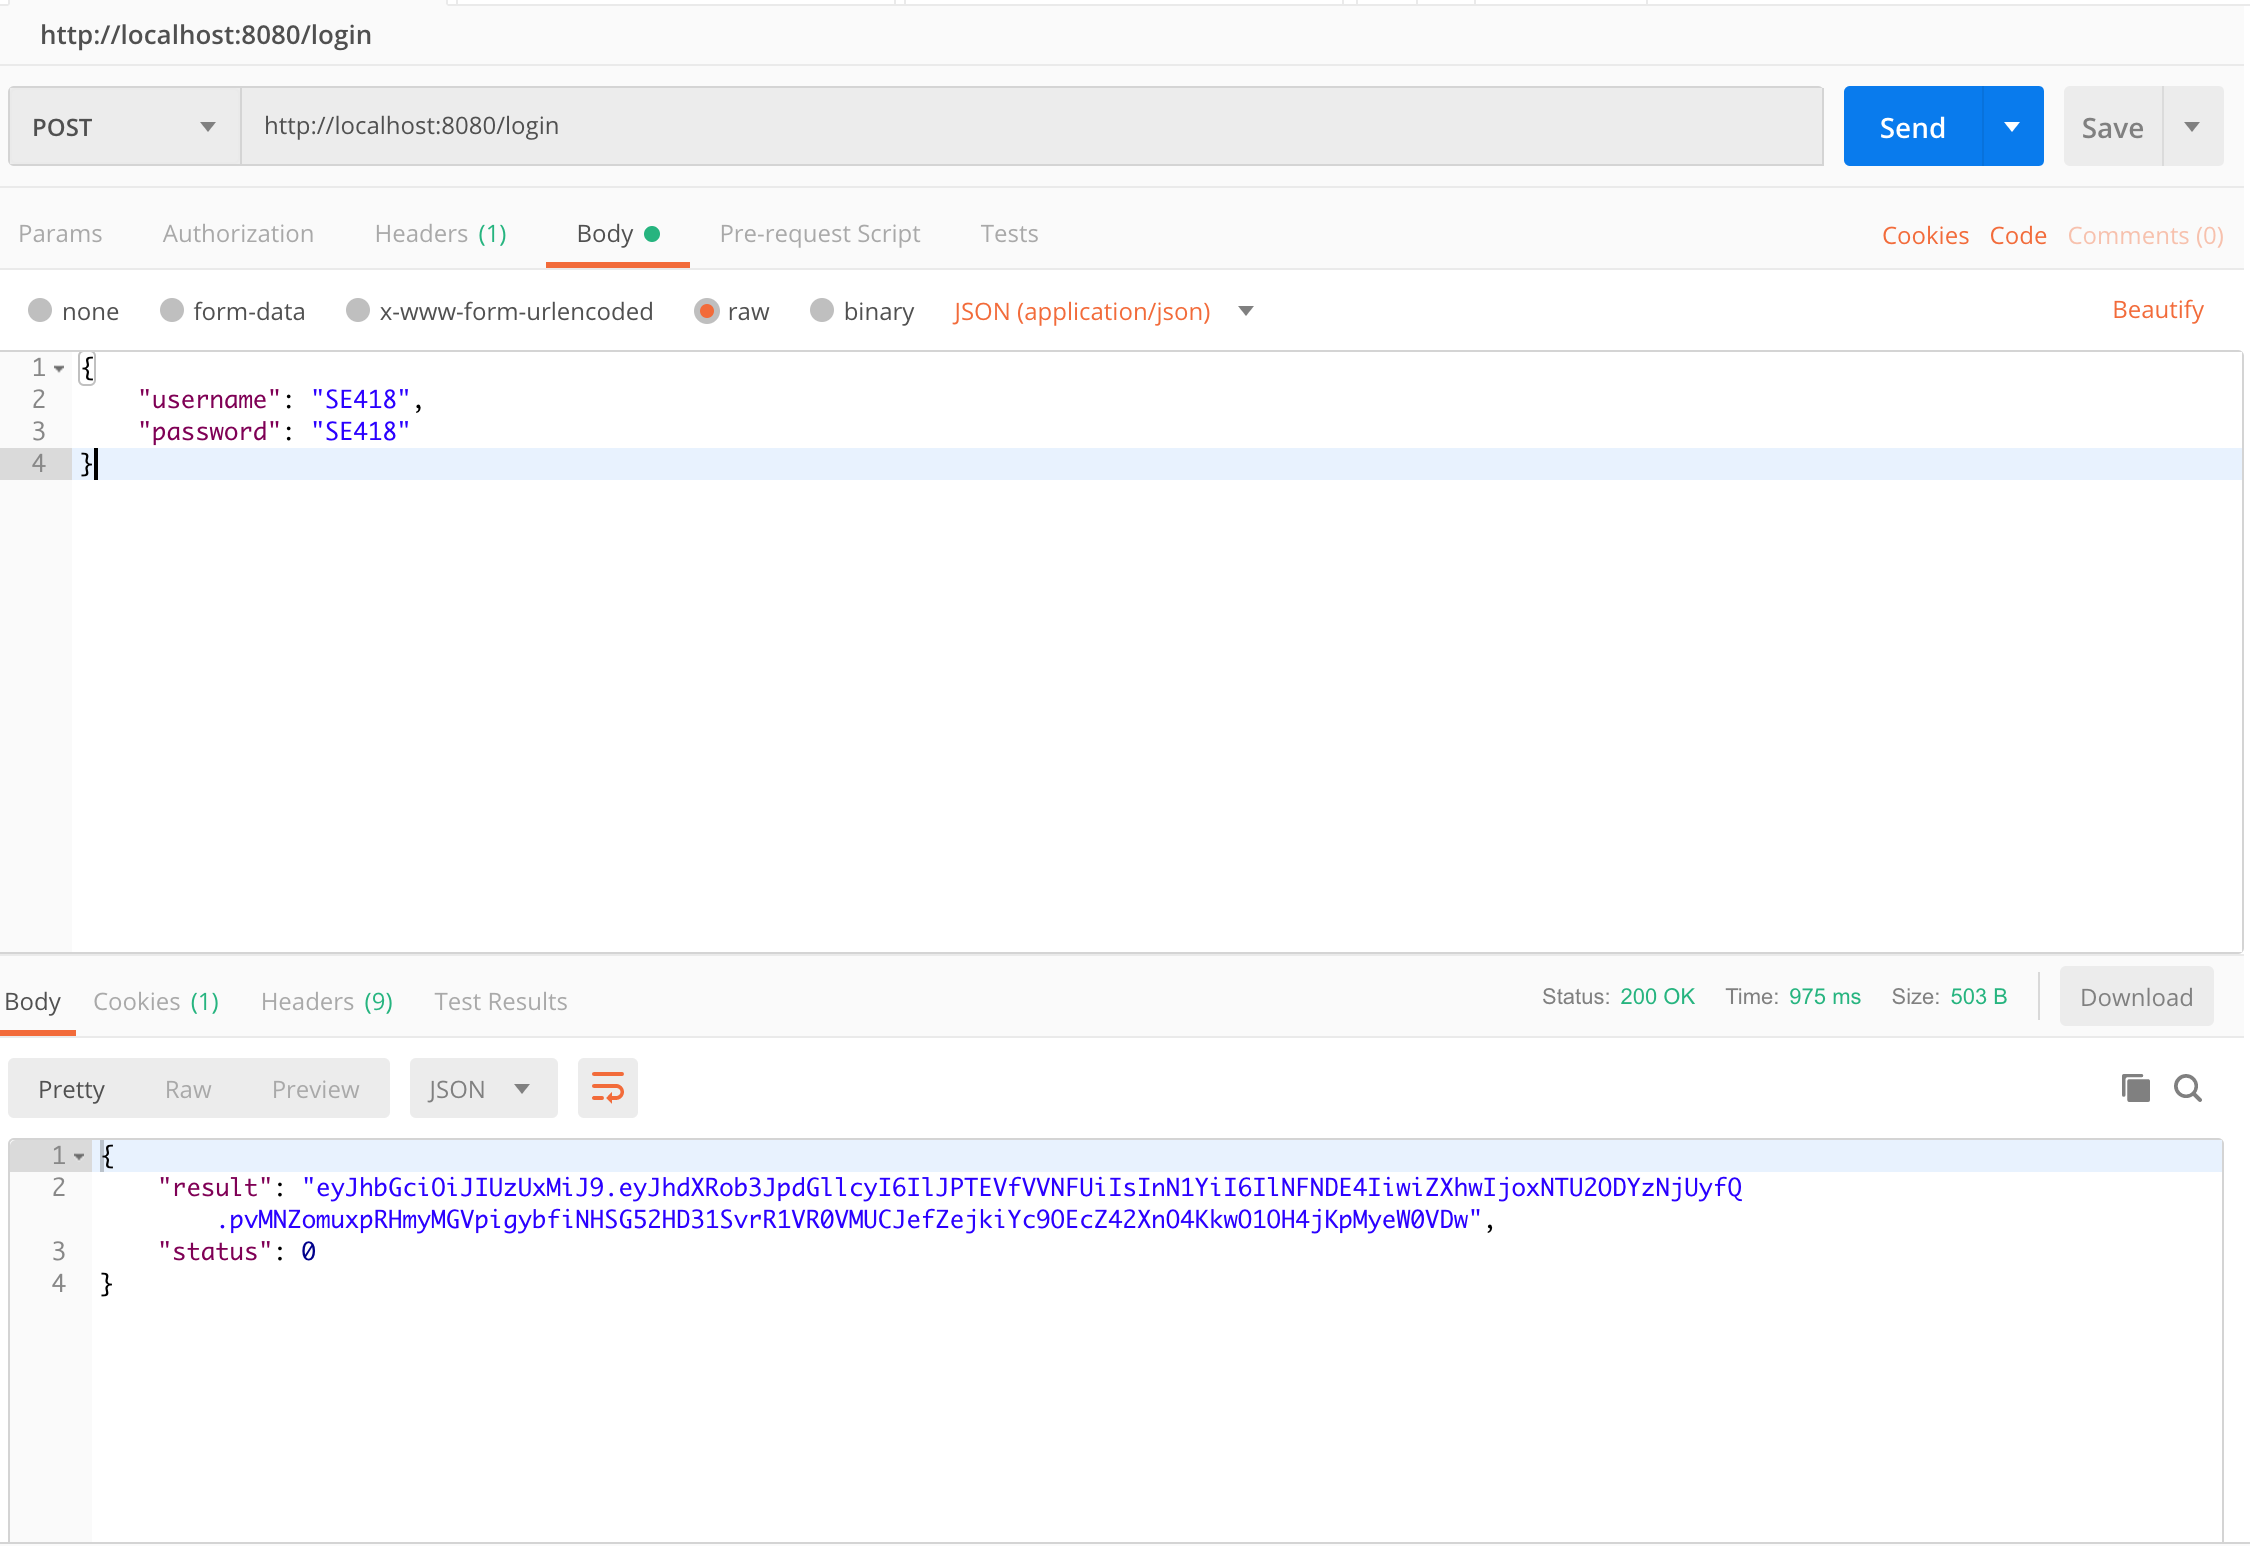
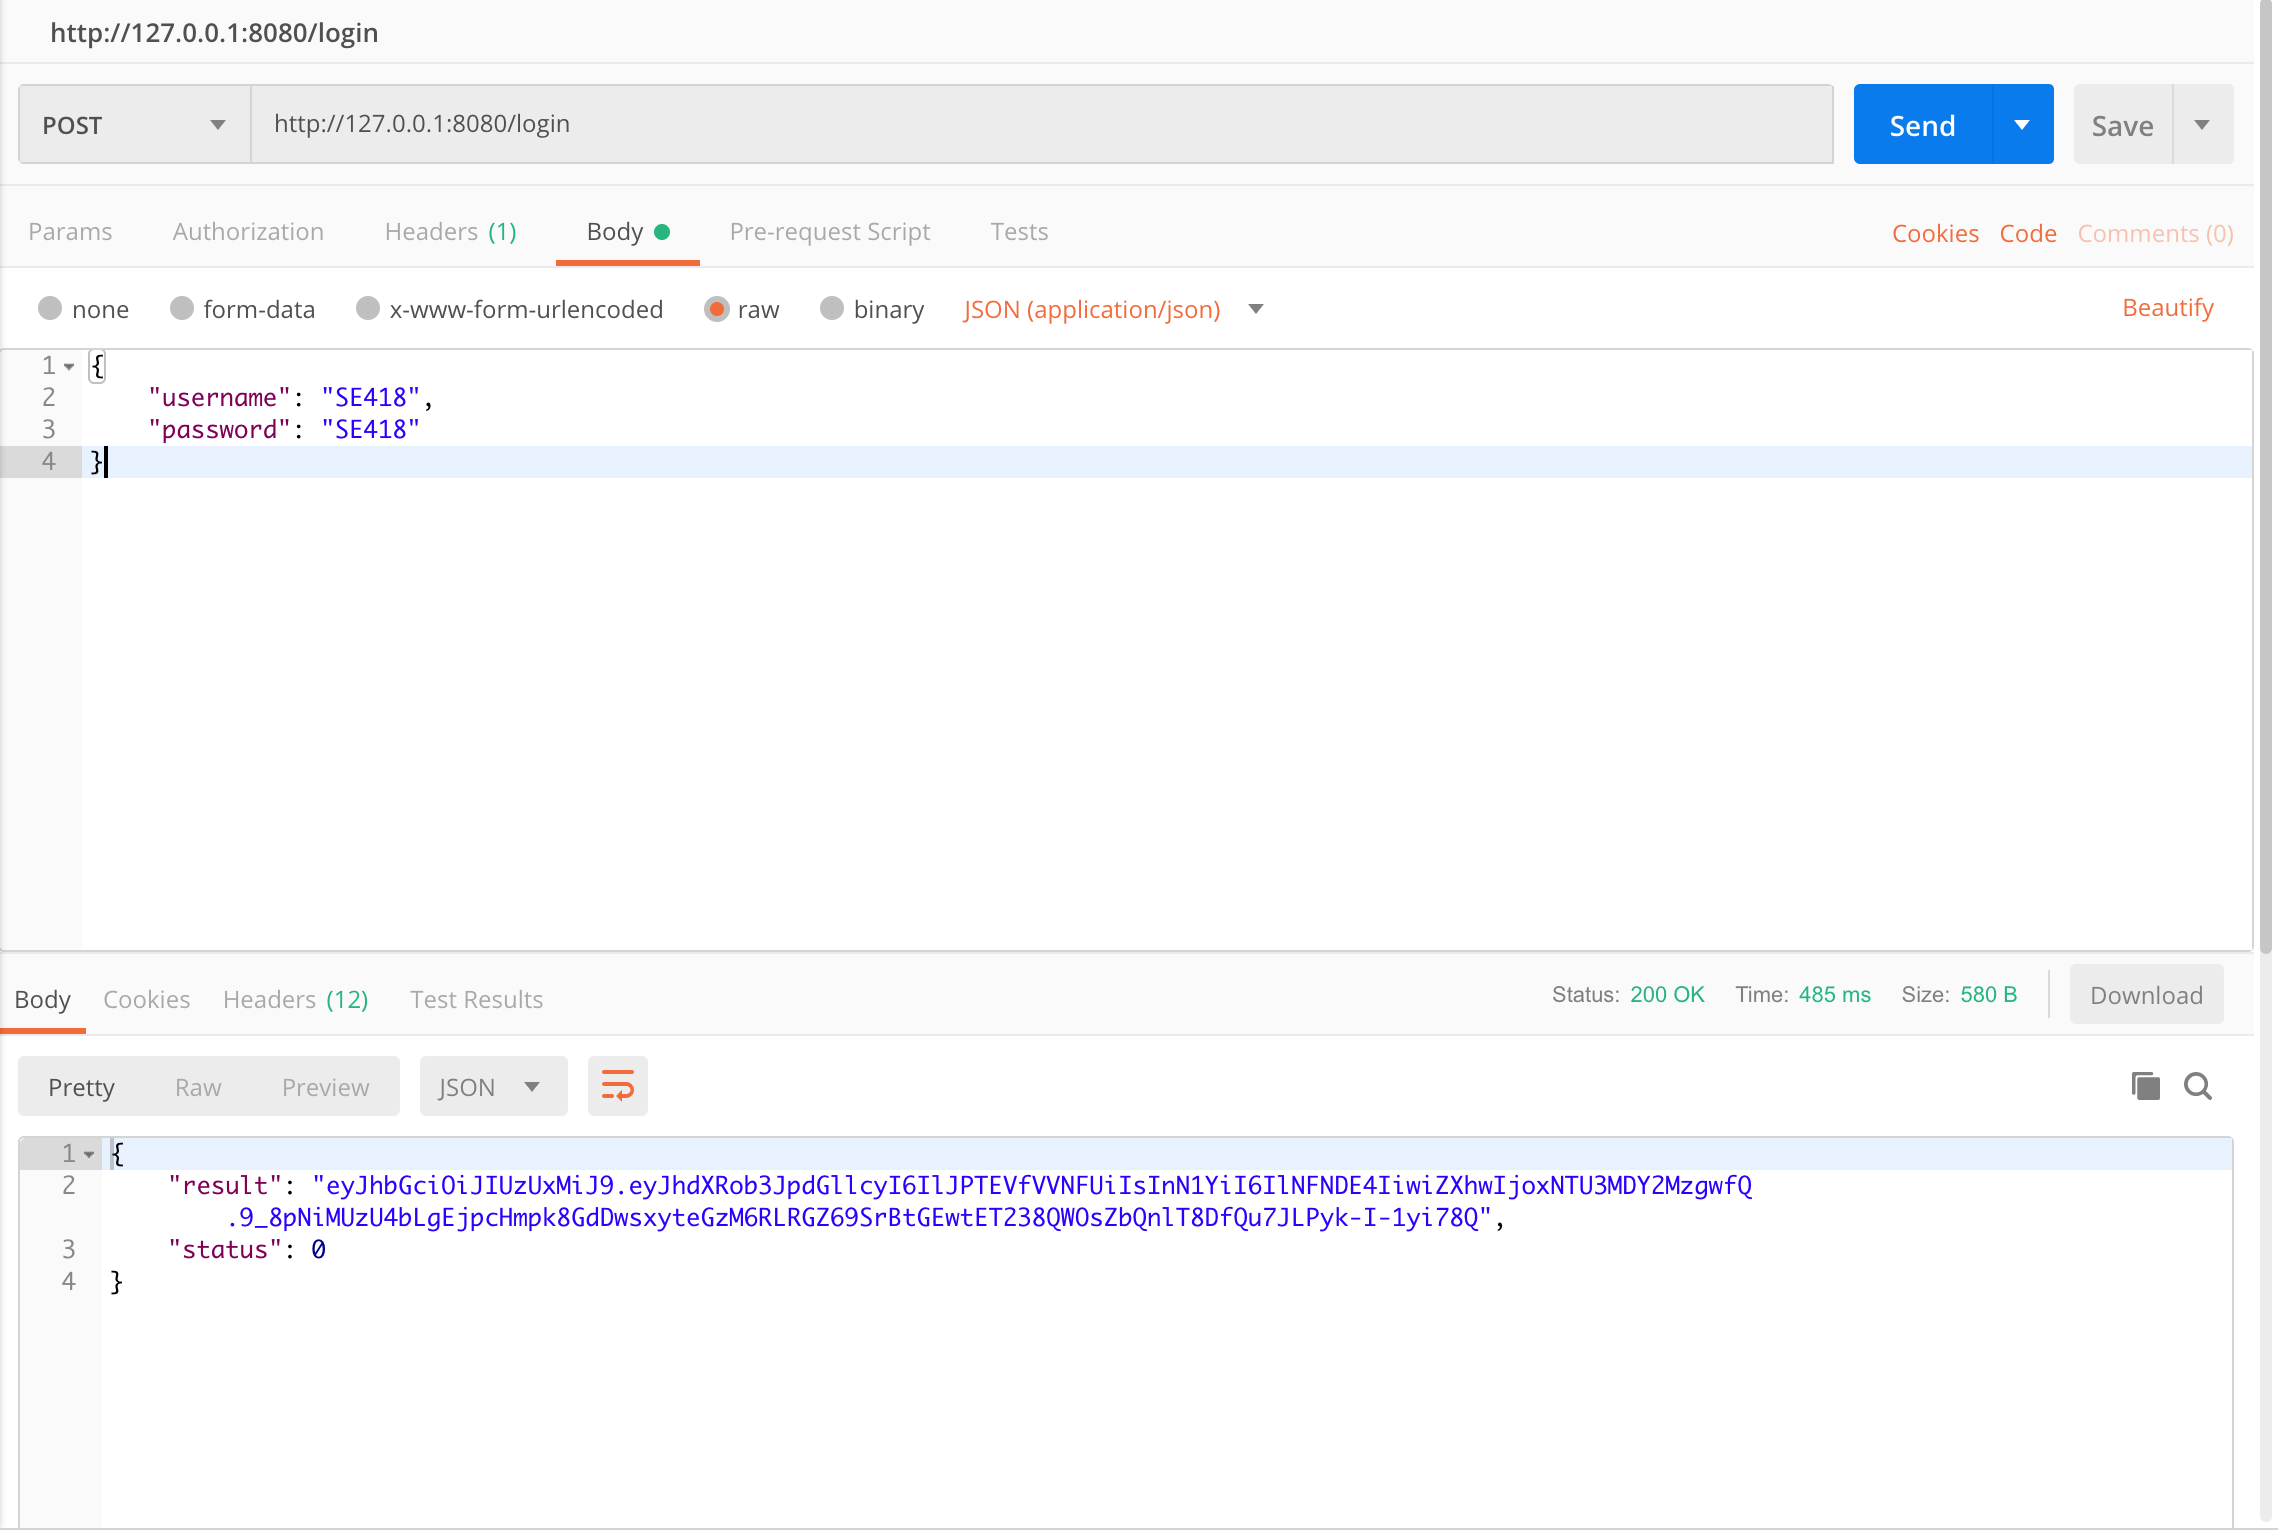
updated readme

diff --git a/Homework_3/README.md b/Homework_3/README.md
@@ -18,18 +18,19 @@ docker pull shenjiahuan/wordladder-play
 ```
 ## Run
 ```$
-docker run -p 8080:8080 -p 9000:9000 -d shenjiahuan/wordladder-login
-docker run -p 8081:8081 -p 9001:9001 -d shenjiahuan/wordladder-play
+docker run -p 8080:8080 -p 9000:9000 -d shenjiahuan/wordladder-login --wordladder.ip=127.0.0.1 --wordladder.port=8081
+docker run -p 8081:8081 -p 9001:9001 -d shenjiahuan/wordladder-play --gateway.ip=127.0.0.1
 ```
-Port 8080 serves microservice login, 8081 serves microservice play, 9000 and 9001 are two ports which actuators listen.
+Port 8080 serves microservice login, 8081 serves microservice play, 9000 and 9001 are two ports which actuators listen.  
+Microservice play can only be accessed via IP address in parameter ```gateway.ip``` (Note: you cannot use localhost in stead of 127.0.0.1)
 
 ## Usage
 Wordladder application requires login before you can use. You will receive HTTP status 401 when unauthorized. At this stage, username and password are both 'SE418'.  
-You can use tools like 'postman' to send HTTP requests, and in this way, you need to *POST* to that url, with data ```{"username":"SE418", "password": "SE418"}``` and Content-Type```application/json``` in request body.  
+You can use tools like 'postman' to send HTTP requests, and in this way, you need to *POST* to <http://localhost:8080/login>, with data ```{"username":"SE418", "password": "SE418"}``` and Content-Type```application/json``` in request body.  
 You will get response like that:
 ![1.png](img/1.png)
 If nothing goes wrong, you will receive a json containing jwt string, which is needed in the following steps.  
-After that, if you wish to get a wordladder from 'hello' to 'world', you can get <http://localhost:8080/wordladders?from=hello&to=world> with previous jwt authorization strings.  
+After that, if you wish to get a wordladder from 'hello' to 'world', you can get <http://localhost:8080/api/wordladders?from=hello&to=world> with previous jwt authorization strings.  
 ![2.png](img/2.png)
 `status` in response body has the following meanings:  
 
@@ -42,4 +43,4 @@ After that, if you wish to get a wordladder from 'hello' to 'world', you can get
 
 ## Spring Actuator
 Port 9000 is opened for monitoring "login" microservice, and 9001 is opened for monitoring "play" microservice.  
-Three endpoints, including health, info, prometheus are opened.
+Three endpoints, including health, info, prometheus are opened without any authorizations.
